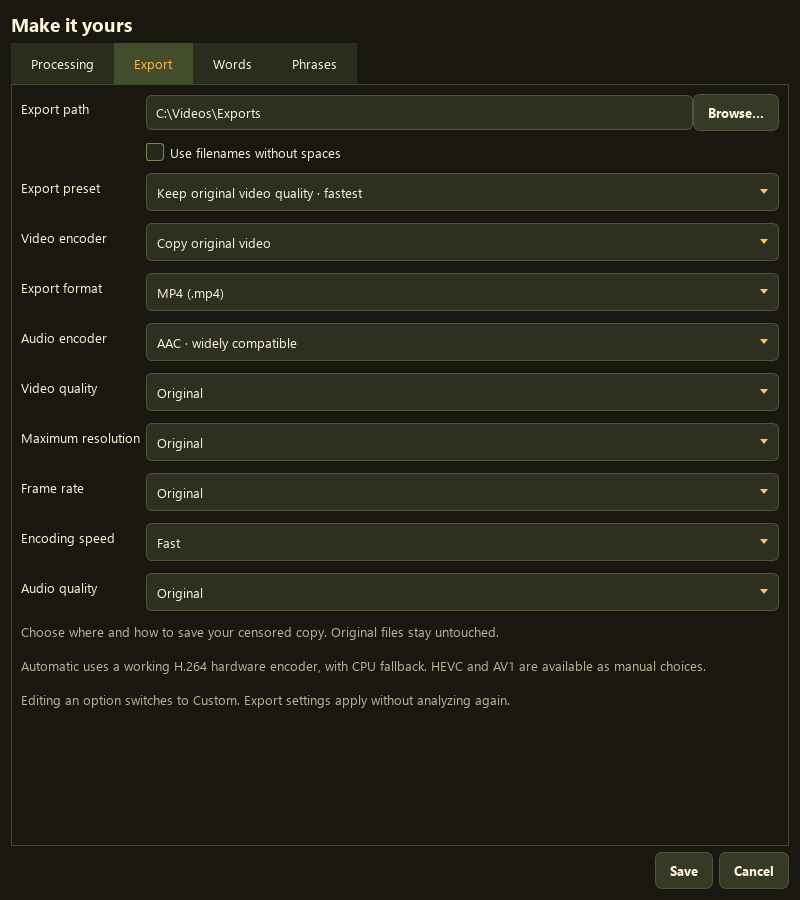
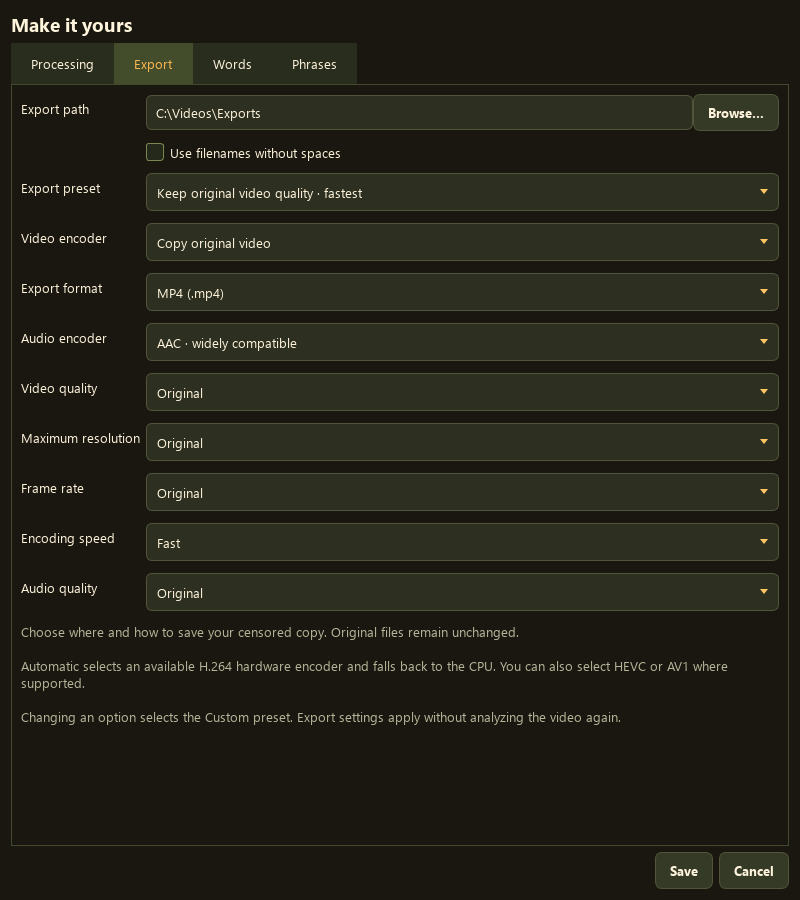
JuicyCensor 2.0.3: recover verified Python installation after Windows error 448

Changed region(s): [[0.0938, 0.6844, 0.9062, 0.7467], [0.0312, 0.7467, 0.75, 0.8089]]

diff --git a/JuicyCensorApp.py b/JuicyCensorApp.py
@@ -256,7 +256,7 @@ class Settings(QDialog):
         self.vmodel.setCurrentText(config.get('vulkan_model', 'base.en'))
         form.addRow('Vulkan model', self.vmodel)
         form.addRow('', button('Download Vulkan model', self.download))
-        note = QLabel('Base is fast; larger models need more memory and download space.\nVulkan uses the GPU for transcription and the CPU for word alignment.\nRX 9060 XT validation is pending; support varies with drivers and hardware.')
+        note = QLabel('The base.en model is fast and compact. Larger models require more memory and storage.\nVulkan uses your GPU for transcription and your CPU to align words with the audio.')
         note.setWordWrap(True)
         note.setObjectName('muted')
         form.addRow(note)
@@ -271,10 +271,10 @@ class Settings(QDialog):
             widget.setSingleStep(.02)
             widget.setSuffix(' s')
             widget.setValue(config.get(key, .1))
-        form.addRow('Padding before word', self.pre)
-        form.addRow('Padding after word', self.post)
-        self.backend.setToolTip('Acceleration for speech analysis. Choose the video export encoder separately in Export.')
-        self.gpu.setToolTip('Graphics card for Vulkan speech transcription; this does not select the export encoder.')
+        form.addRow('Padding before each word', self.pre)
+        form.addRow('Padding after each word', self.post)
+        self.backend.setToolTip('Choose how speech analysis runs. Select the video encoder separately on the Export tab.')
+        self.gpu.setToolTip('Choose the graphics card used for Vulkan speech analysis. This setting does not change the export encoder.')
         self.model.setToolTip('Speech model for NVIDIA CUDA or CPU analysis. Larger models use more memory and take longer.')
         self.vmodel.setToolTip('Speech model for Vulkan analysis. Download the selected model before using it.')
         self.language.setToolTip('Language of the spoken audio. Models ending in .en support English only.')
@@ -286,7 +286,7 @@ class Settings(QDialog):
         export_form.setVerticalSpacing(12)
         path_row = QHBoxLayout()
         self.export_path = QLineEdit(str(config.get('export_path') or ROOT / 'outputs' / 'censored'))
-        self.export_path.setToolTip('Folder for exported videos. It is created on export if needed. Reports stay in the app reports folder.')
+        self.export_path.setToolTip('Choose where exported videos are saved. The folder is created when needed. Reports are saved in outputs/reports inside the app folder.')
         path_row.addWidget(self.export_path, 1)
         browse = button('Browse…', self.browse_export_path)
         browse.setToolTip('Choose where to save exported videos')
@@ -294,7 +294,7 @@ class Settings(QDialog):
         export_form.addRow('Export path', path_row)
         self.no_spaces = QCheckBox('Use filenames without spaces')
         self.no_spaces.setChecked(bool(config.get('export_no_spaces', False)))
-        self.no_spaces.setToolTip('Replace spaces with underscores. Unique suffixes keep existing files safe.')
+        self.no_spaces.setToolTip('Replace spaces in exported filenames with underscores. A unique suffix prevents existing files from being overwritten.')
         export_form.addRow('', self.no_spaces)
         self.export_controls = {}
         choices = [
@@ -336,16 +336,16 @@ class Settings(QDialog):
             'export_encoder': 'Automatic selects working H.264 hardware, then CPU. HEVC and AV1 can save space but need compatible players. Manual selections are tested before export. Copy preserves the original video stream.',
             'export_format': 'MP4 is widely compatible. Matroska supports Opus audio. Selecting MP4 switches Opus to AAC.',
             'export_audio_encoder': 'AAC works with MP4 and Matroska. Choosing Opus switches the format to Matroska.',
-            'export_video_quality': 'Original copies the video without quality loss. High, Balanced and Smaller file re-encode it. Targets are approximate and differ between encoders.',
-            'export_resolution': 'Fit within the selected dimensions without upscaling or stretching. Changing this enables encoding.',
-            'export_fps': 'Original keeps source timing. Other choices may drop or duplicate frames. Changing this enables encoding.',
-            'export_preset': 'Slower encoding favors compression; behavior depends on the encoder. Changing this enables encoding.',
+            'export_video_quality': 'Original preserves the existing video stream. High, Balanced, and Smaller file re-encode the video. Results vary by encoder.',
+            'export_resolution': 'Limit the output dimensions without upscaling or stretching. Changing this setting enables video re-encoding.',
+            'export_fps': 'Original keeps the source frame rate. Other choices may drop or duplicate frames and require video re-encoding.',
+            'export_preset': 'Slower encoding can produce smaller files at similar quality. Results depend on the encoder. Changing this setting enables video re-encoding.',
             'export_audio_bitrate': 'Original matches the source audio bitrate when reported (8–512 kbps); otherwise uses 192 kbps. Censoring still re-encodes audio, so Original is not lossless. Higher fixed bitrates use more space.'}
         for key, combo in self.export_controls.items():
             combo.setToolTip(tips[key])
             if key != 'export_quality':
                 combo.currentIndexChanged.connect(lambda _, key=key: self.custom_export(key))
-        export_note = QLabel('Choose where and how to save your censored copy. Original files stay untouched.\n\nAutomatic uses a working H.264 hardware encoder, with CPU fallback. HEVC and AV1 are available as manual choices.\n\nEditing an option switches to Custom. Export settings apply without analyzing again.')
+        export_note = QLabel('Choose where and how to save your censored copy. Original files remain unchanged.\n\nAutomatic selects an available H.264 hardware encoder and falls back to the CPU. You can also select HEVC or AV1 where supported.\n\nChanging an option selects the Custom preset. Export settings apply without analyzing the video again.')
         export_note.setWordWrap(True)
         export_note.setObjectName('muted')
         export_form.addRow(export_note)

diff --git a/VALIDATION.md b/VALIDATION.md
@@ -1,5 +1,8 @@
 # JuicyCensor 2.0.3 validation
 
+- AMD Radeon RX 9060 XT Vulkan support is confirmed by a user on a separate PC.
+  This is community verification, distinct from the local automated tests below.
+
 - All 17 backend/cache/setup tests passed, including successful recovery, a missing or
   invalid interpreter, unrelated errors, successful normal installs, and cancellation.
 - A real child process emitted the reported uv error and exited unsuccessfully. Setup
@@ -52,8 +55,8 @@ Validated locally on Windows on 2026-09-19.
 - Audio Original targets the reported source bitrate; the 192 kbps fallback and preset
   transitions were tested. It does not promise lossless processed audio.
 
-This is not a certification of every PC or video format. RX 9060 XT, Intel hardware
-encoding and a separate physical clean PC have not been tested. Long-video, accessibility,
+This is not a certification of every PC or video format. Intel hardware encoding
+and a separate physical clean PC have not been tested by the maintainer. Long-video, accessibility,
 HDR color conversion and broad driver coverage need further validation. Automatic
 encoder selection tests a few frames before rendering; later failures are still possible.
 

diff --git a/RELEASE-NOTES.md b/RELEASE-NOTES.md
@@ -1,5 +1,8 @@
 # JuicyCensor 2.0.3
 
+- Polished Settings labels and explanations, and removed the RX 9060 XT pending-validation notice following user confirmation.
+- Updated visible app/version labels and README screenshots for 2.0.3.
+
 - Recover from Windows error 448 when uv finishes downloading Python but cannot
   create its optional minor-version directory link.
 - Verify the exact Python version, 64-bit architecture, and required standard-library
